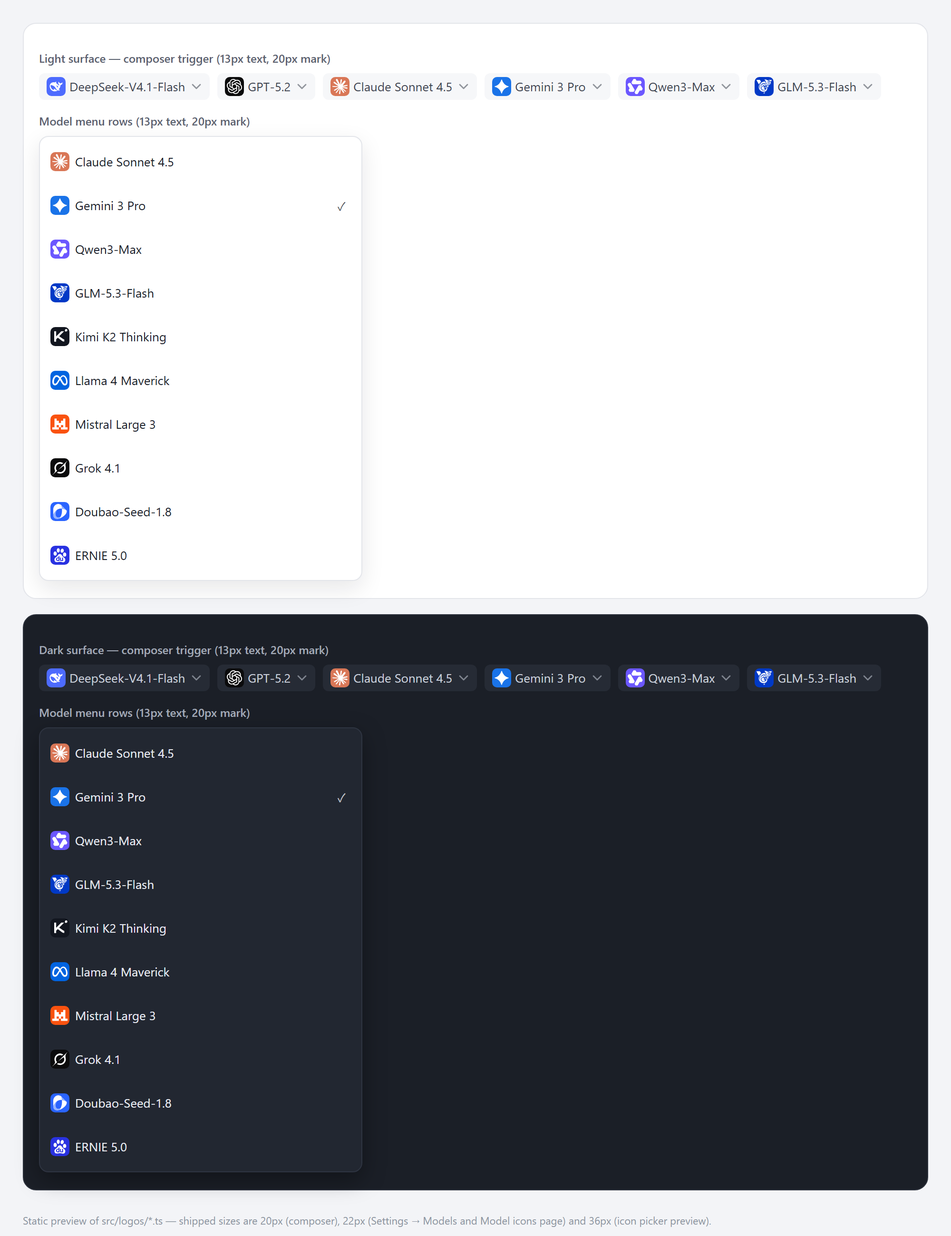
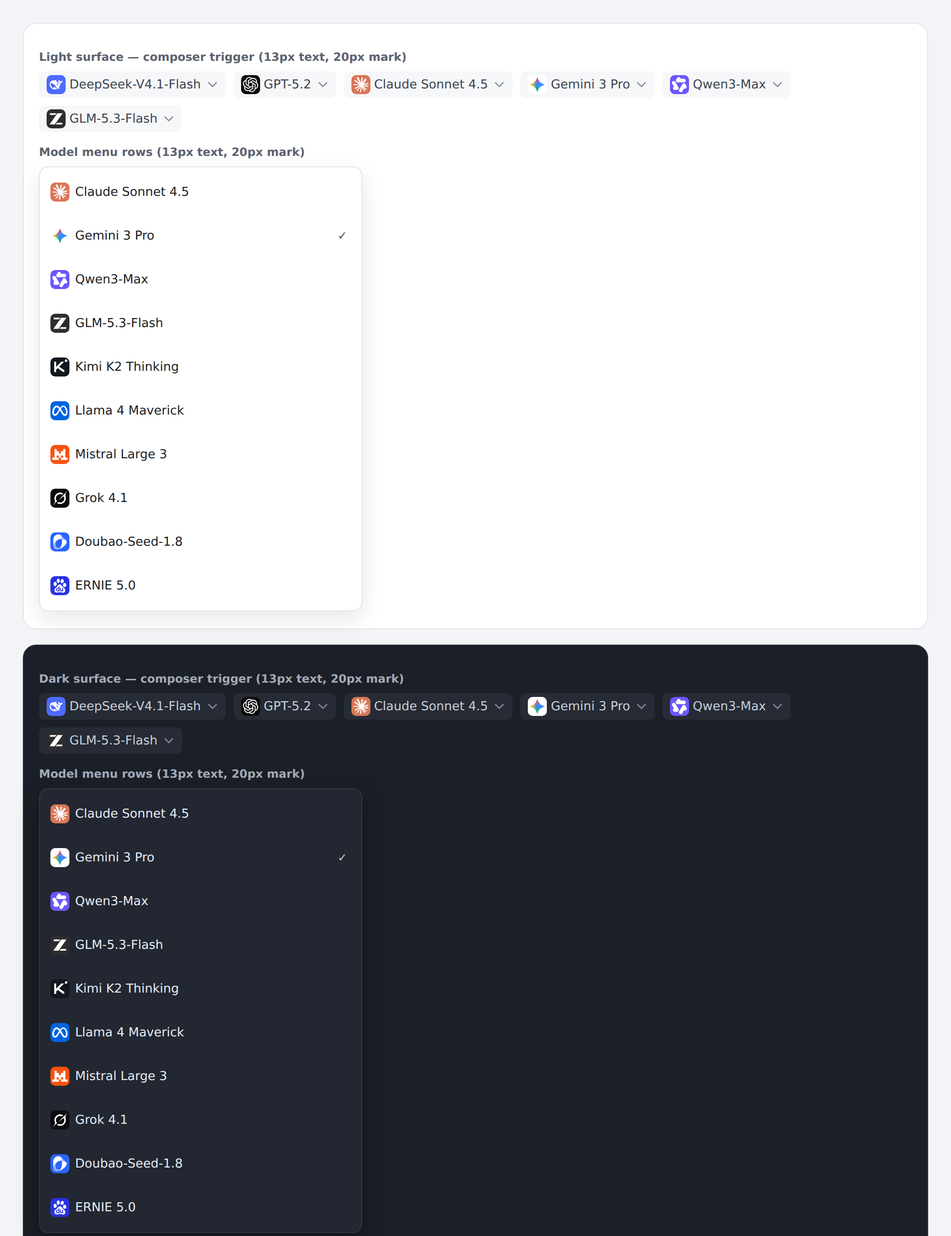
docs: record the corrected artwork provenance and previews
The artwork corrections need their rationale next to the contract: the derived
set, the aurora quantisation and its measured bounds, the fourth-correction
arithmetic (44 upstream files), the `logo:check` wiring and `baiducloud` staying
picker-only. THIRD_PARTY_LICENSES.md now counts 44 upstream Lobe files, adds the
zai-org/GLM-5 Apache-2.0 section with the full licence text and the derived
Gemini note, and lists the eight manual keys with their sources. The READMEs say
where the Z and the aurora come from. The design sheets and the five
docs/preview*.png are regenerated from the current build.

Verified: pnpm run verify (95 tests, logo:check, rank:check, build, artifact
check); pnpm run verify:dom (89 passed, 0 failed); previews regenerated with the
commands documented in docs/engineering.md.

diff --git a/docs/brand-names.md b/docs/brand-names.md
@@ -25,38 +25,39 @@ the source of truth for that overlay, and `src/i18n.ts` must match it.
 - Names that are already the official name in Chinese-language contexts are not
   overridden (`Kimi`, `MiniMax`, `DeepSeek`, `Azure`, …).
 
-Research date: **2026-11-06** (Asia/Shanghai). Every entry below was checked
-against a page the brand owner controls; the exact quote is recorded next to the
-link.
+Research date: **2026-11-06** (Asia/Shanghai), re-checked and extended on
+**2026-11-10** with `baiducloud`. Every entry below was checked against a page the
+brand owner controls; the exact quote is recorded next to the link.
 
 ## Included names
 
-| logoKey     | official English title | official Chinese name | group  | first-party source and quote                                                                                                                               |
-| ----------- | ---------------------- | --------------------- | ------ | ---------------------------------------------------------------------------------------------------------------------------------------------------------- |
-| `alibaba`   | Alibaba                | 阿里巴巴              | vendor | [alibabagroup.com](https://www.alibabagroup.com/zh-CN) — “阿里巴巴集团的使命是让天下没有难做的生意。”                                                      |
-| `antgroup`  | Ant Group              | 蚂蚁集团              | vendor | [antgroup.com](https://www.antgroup.com/) — “浙江蚂蚁小微金融服务集团股份有限公司正式更名为蚂蚁科技集团股份有限公司，简称蚂蚁集团。”                       |
-| `aws`       | AWS                    | 亚马逊云科技          | vendor | [amazonaws.cn](https://www.amazonaws.cn/) — “使用亚马逊云科技产品…” “免费试用亚马逊云科技”                                                                 |
-| `baidu`     | Baidu                  | 百度                  | vendor | [home.baidu.com](https://home.baidu.com/) — “百度公司介绍”                                                                                                 |
-| `bytedance` | ByteDance              | 字节跳动              | vendor | [bytedance.com/zh](https://www.bytedance.com/zh) — “字节跳动是一家全球化科技公司”                                                                          |
-| `google`    | Google                 | 谷歌                  | vendor | [Google 中国官方博客](https://china.googleblog.com/2006/04/blog-post_2456.html) — “昨天，Google 发布了我们在全球唯一的非英文品牌名称 – 谷歌。”             |
-| `microsoft` | Microsoft              | 微软                  | vendor | [microsoft.com/zh-cn](https://www.microsoft.com/zh-cn) — “微软的数字工具正在帮助…”                                                                         |
-| `moonshot`  | Moonshot AI            | 月之暗面              | vendor | [moonshot.cn/about](https://www.moonshot.cn/about) — “月之暗面（Moonshot AI）正式成立。”                                                                   |
-| `nvidia`    | NVIDIA                 | 英伟达                | vendor | [blogs.nvidia.cn](https://blogs.nvidia.cn/) — NVIDIA 官方中国博客首页标题 “NVIDIA 英伟达博客”                                                              |
-| `tencent`   | Tencent                | 腾讯                  | vendor | [tencent.com/zh-cn](https://www.tencent.com/zh-cn/about.html) — “腾讯是一家世界领先的互联网科技公司”                                                       |
-| `xiaomi`    | Xiaomi                 | 小米                  | vendor | [mi.com](https://www.mi.com/) — “小米集团隐私政策” “小米商城”                                                                                              |
-| `zhipu`     | Zhipu AI               | 智谱                  | vendor | [zhipuai.cn](https://www.zhipuai.cn/) — “智谱（‘公司’；香港联交所股票代码：02513）”                                                                        |
-| `antling`   | Ant Ling               | 蚂蚁百灵              | model  | [developer.ant-ling.com](https://developer.ant-ling.com/zh-CN/docs/) — “蚂蚁百灵（Ant Ling）是蚂蚁集团开源的大语言模型家族”                                |
-| `doubao`    | Doubao                 | 豆包                  | model  | [doubao.com](https://www.doubao.com/) — “关于豆包” “下载豆包电脑版”                                                                                        |
-| `ernie`     | ERNIE                  | 文心                  | model  | [cloud.baidu.com/wenxin.html](https://cloud.baidu.com/wenxin.html) — “文心一言是百度打造出来的人工智能大语言模型” “文心大模型服务”                         |
-| `hailuo`    | Hailuo                 | 海螺                  | model  | [minimax.cn](https://www.minimax.cn/news/s2v-01%E5%8F%91%E5%B8%83) — “海螺AI是一台造梦机…”（官方产品/品牌名；API 模型 ID 仍为 `MiniMax-Hailuo-*`）         |
-| `hunyuan`   | Hunyuan                | 混元                  | model  | [hunyuan.tencent.com](https://hunyuan.tencent.com/) — “腾讯混元”                                                                                           |
-| `qwen`      | Qwen                   | 千问                  | model  | [阿里云开发者社区（官方）](https://developer.aliyun.com/article/1714078) — “阿里巴巴大模型品牌中文为‘千问大模型’，英文为‘Qwen’…‘通义千问’的名称将不再使用” |
-| `stepfun`   | StepFun                | 阶跃星辰              | model  | [stepfun.com/about](https://www.stepfun.com/about) — “# 阶跃星辰（StepFun）”；模型系列名为 “Step”，此标记的标题是公司品牌                                  |
+| logoKey      | official English title | official Chinese name | group  | first-party source and quote                                                                                                                                                                   |
+| ------------ | ---------------------- | --------------------- | ------ | ---------------------------------------------------------------------------------------------------------------------------------------------------------------------------------------------- |
+| `alibaba`    | Alibaba                | 阿里巴巴              | vendor | [alibabagroup.com](https://www.alibabagroup.com/zh-CN) — “阿里巴巴集团的使命是让天下没有难做的生意。”                                                                                          |
+| `antgroup`   | Ant Group              | 蚂蚁集团              | vendor | [antgroup.com](https://www.antgroup.com/) — “浙江蚂蚁小微金融服务集团股份有限公司正式更名为蚂蚁科技集团股份有限公司，简称蚂蚁集团。”                                                           |
+| `aws`        | AWS                    | 亚马逊云科技          | vendor | [amazonaws.cn](https://www.amazonaws.cn/) — “使用亚马逊云科技产品…” “免费试用亚马逊云科技”                                                                                                     |
+| `baidu`      | Baidu                  | 百度                  | vendor | [home.baidu.com](https://home.baidu.com/) — “百度公司介绍”                                                                                                                                     |
+| `baiducloud` | BaiduCloud             | 百度智能云            | vendor | [cloud.baidu.com/event/brand.html](https://cloud.baidu.com/event/brand.html) — “升级后，面向企业的‘百度开放云’平台将正式使用‘百度智能云’品牌。” Logo释义：“由三原色组成的开放式六边环形标志。” |
+| `bytedance`  | ByteDance              | 字节跳动              | vendor | [bytedance.com/zh](https://www.bytedance.com/zh) — “字节跳动是一家全球化科技公司”                                                                                                              |
+| `google`     | Google                 | 谷歌                  | vendor | [Google 中国官方博客](https://china.googleblog.com/2006/04/blog-post_2456.html) — “昨天，Google 发布了我们在全球唯一的非英文品牌名称 – 谷歌。”                                                 |
+| `microsoft`  | Microsoft              | 微软                  | vendor | [microsoft.com/zh-cn](https://www.microsoft.com/zh-cn) — “微软的数字工具正在帮助…”                                                                                                             |
+| `moonshot`   | Moonshot AI            | 月之暗面              | vendor | [moonshot.cn/about](https://www.moonshot.cn/about) — “月之暗面（Moonshot AI）正式成立。”                                                                                                       |
+| `nvidia`     | NVIDIA                 | 英伟达                | vendor | [blogs.nvidia.cn](https://blogs.nvidia.cn/) — NVIDIA 官方中国博客首页标题 “NVIDIA 英伟达博客”                                                                                                  |
+| `tencent`    | Tencent                | 腾讯                  | vendor | [tencent.com/zh-cn](https://www.tencent.com/zh-cn/about.html) — “腾讯是一家世界领先的互联网科技公司”                                                                                           |
+| `xiaomi`     | Xiaomi                 | 小米                  | vendor | [mi.com](https://www.mi.com/) — “小米集团隐私政策” “小米商城”                                                                                                                                  |
+| `zhipu`      | Zhipu AI               | 智谱                  | vendor | [zhipuai.cn](https://www.zhipuai.cn/) — “智谱（‘公司’；香港联交所股票代码：02513）”                                                                                                            |
+| `antling`    | Ant Ling               | 蚂蚁百灵              | model  | [developer.ant-ling.com](https://developer.ant-ling.com/zh-CN/docs/) — “蚂蚁百灵（Ant Ling）是蚂蚁集团开源的大语言模型家族”                                                                    |
+| `doubao`     | Doubao                 | 豆包                  | model  | [doubao.com](https://www.doubao.com/) — “关于豆包” “下载豆包电脑版”                                                                                                                            |
+| `ernie`      | ERNIE                  | 文心                  | model  | [cloud.baidu.com/wenxin.html](https://cloud.baidu.com/wenxin.html) — “文心一言是百度打造出来的人工智能大语言模型” “文心大模型服务”                                                             |
+| `hailuo`     | Hailuo                 | 海螺                  | model  | [minimax.cn](https://www.minimax.cn/news/s2v-01%E5%8F%91%E5%B8%83) — “海螺AI是一台造梦机…”（官方产品/品牌名；API 模型 ID 仍为 `MiniMax-Hailuo-*`）                                             |
+| `hunyuan`    | Hunyuan                | 混元                  | model  | [hunyuan.tencent.com](https://hunyuan.tencent.com/) — “腾讯混元”                                                                                                                               |
+| `qwen`       | Qwen                   | 千问                  | model  | [阿里云开发者社区（官方）](https://developer.aliyun.com/article/1714078) — “阿里巴巴大模型品牌中文为‘千问大模型’，英文为‘Qwen’…‘通义千问’的名称将不再使用”                                     |
+| `stepfun`    | StepFun                | 阶跃星辰              | model  | [stepfun.com/about](https://www.stepfun.com/about) — “# 阶跃星辰（StepFun）”；模型系列名为 “Step”，此标记的标题是公司品牌                                                                      |
 
 ## Deliberate review decisions
 
 The overlay was researched in two independent passes and adjudicated against the
-primary sources above. Three verdicts differ from the most conservative reading and
+primary sources above. Four verdicts differ from the most conservative reading and
 are recorded here so a future contributor does not “fix” them into a folk name:
 
 - **`qwen` → 千问, not 通义千问.** Alibaba unified its model/app brand in March
@@ -73,6 +74,13 @@ are recorded here so a future contributor does not “fix” them into a folk na
   product line 海螺AI in its own Chinese material, and StepFun's official Chinese
   name is 阶跃星辰（its models are “Step”). Their API/model identifiers stay Latin
   (`MiniMax-Hailuo-2.3`, `Step 3.5 Flash`) — only the displayed brand is localized.
+- **`baiducloud` → 百度智能云, a separate overlay row from `baidu` → 百度.** The
+  cloud business and the consumer search brand are distinct Baidu brands: Baidu
+  itself announced the rename on its own brand page (“面向企业的‘百度开放云’平台将
+  正式使用‘百度智能云’品牌”), and the mark is the tri-colour open hexagonal ring.
+  The two keys must keep separate titles **and** separate Chinese names — `百度`
+  colouring the cloud tile, or `百度智能云` colouring search, would misattribute a
+  brand the owner keeps apart.
 
 ## Names kept in English
 

diff --git a/THIRD_PARTY_LICENSES.md b/THIRD_PARTY_LICENSES.md
@@ -1,10 +1,10 @@
 # Third-party licenses and artwork provenance
 
 This package is MIT licensed (see [LICENSE](LICENSE)). The brand marks bundled in
-`src/logos/official.generated.ts` and `src/logos/manual.ts` are third-party
-artwork; the licenses below cover that artwork, and the trademarks remain the
-property of their owners. The marks are used only to identify the corresponding
-provider or model in the plugin's UI.
+`src/logos/official.generated.ts`, `src/logos/derived.generated.ts` and
+`src/logos/manual.ts` are third-party artwork; the licenses below cover that
+artwork, and the trademarks remain the property of their owners. The marks are
+used only to identify the corresponding provider or model in the plugin's UI.
 
 ## @lobehub/icons-static-svg 1.102.0 — MIT
 
@@ -12,10 +12,12 @@ provider or model in the plugin's UI.
 - Upstream: <https://github.com/lobehub/lobe-icons>
 - Source files: <https://unpkg.com/@lobehub/icons-static-svg@1.102.0/icons/>
 - License: MIT, copyright © 2023 LobeHub
-- Included here: the 46 upstream files committed verbatim under
+- Included here: the 44 upstream files committed verbatim under
   `reference/official/` (one `<slug>.svg` per source mark, sha256 pinned in
   `reference/official/manifest.json`), fitted into 24×24 tiles by
-  `scripts/import-logos.ts` to produce `src/logos/official.generated.ts`.
+  `scripts/import-logos.ts` to produce `src/logos/official.generated.ts`. The
+  derived sources under `reference/derived/` that also come from this package
+  (`gemini-aurora.svg`) are covered by the same MIT grant; the Z tile is not.
 
 ```text
 MIT License
@@ -41,6 +43,81 @@ OUT OF OR IN CONNECTION WITH THE SOFTWARE OR THE USE OR OTHER DEALINGS IN THE
 SOFTWARE.
 ```
 
+## zai-org/GLM-5 — Apache-2.0
+
+- Upstream: <https://github.com/zai-org/GLM-5>
+- Pinned file: `resources/logo.svg` at commit
+  `83c03d317378f86f0a012f7c4cd48b6243c7e69b`, committed verbatim as
+  `reference/derived/zhipu-z.svg` (its sha256 is pinned in
+  `reference/derived/manifest.json`).
+- License: Apache License, Version 2.0, copyright © the zai-org/GLM-5 authors.
+  The upstream repository ships no `NOTICE` file, so the terms below are the
+  whole attribution.
+- Included here: the three white Z shapes are kept verbatim; the plate is
+  replaced by this repository's own rounded tile carrying the source fill
+  (`#2D2D2D`), and the dead `<style>` table, the `id` attributes and the empty
+  groups are dropped so the tile can be inlined. `scripts/derive-marks.ts`
+  rebuilds that tile offline from the pinned file, and its `--check` mode fails
+  on any drift.
+
+```text
+Apache License
+
+Version 2.0, January 2004
+
+http://www.apache.org/licenses/
+
+TERMS AND CONDITIONS FOR USE, REPRODUCTION, AND DISTRIBUTION
+
+1. Definitions.
+
+"License" shall mean the terms and conditions for use, reproduction, and distribution as defined by Sections 1 through 9 of this document.
+
+"Licensor" shall mean the copyright owner or entity authorized by the copyright owner that is granting the License.
+
+"Legal Entity" shall mean the union of the acting entity and all other entities that control, are controlled by, or are under common control with that entity. For the purposes of this definition, "control" means (i) the power, direct or indirect, to cause the direction or management of such entity, whether by contract or otherwise, or (ii) ownership of fifty percent (50%) or more of the outstanding shares, or (iii) beneficial ownership of such entity.
+
+"You" (or "Your") shall mean an individual or Legal Entity exercising permissions granted by this License.
+
+"Source" form shall mean the preferred form for making modifications, including but not limited to software source code, documentation source, and configuration files.
+
+"Object" form shall mean any form resulting from mechanical transformation or translation of a Source form, including but not limited to compiled object code, generated documentation, and conversions to other media types.
+
+"Work" shall mean the work of authorship, whether in Source or Object form, made available under the License, as indicated by a copyright notice that is included in or attached to the work (an example is provided in the Appendix below).
+
+"Derivative Works" shall mean any work, whether in Source or Object form, that is based on (or derived from) the Work and for which the editorial revisions, annotations, elaborations, or other modifications represent, as a whole, an original work of authorship. For the purposes of this License, Derivative Works shall not include works that remain separable from, or merely link (or bind by name) to the interfaces of, the Work and Derivative Works thereof.
+
+"Contribution" shall mean any work of authorship, including the original version of the Work and any modifications or additions to that Work or Derivative Works thereof, that is intentionally submitted to Licensor for inclusion in the Work by the copyright owner or by an individual or Legal Entity authorized to submit on behalf of the copyright owner. For the purposes of this definition, "submitted" means any form of electronic, verbal, or written communication sent to the Licensor or its representatives, including but not limited to communication on electronic mailing lists, source code control systems, and issue tracking systems that are managed by, or on behalf of, the Licensor for the purpose of discussing and improving the Work, but excluding communication that is conspicuously marked or otherwise designated in writing by the copyright owner as "Not a Contribution."
+
+"Contributor" shall mean Licensor and any individual or Legal Entity on behalf of whom a Contribution has been received by Licensor and subsequently incorporated within the Work.
+
+2. Grant of Copyright License. Subject to the terms and conditions of this License, each Contributor hereby grants to You a perpetual, worldwide, non-exclusive, no-charge, royalty-free, irrevocable copyright license to reproduce, prepare Derivative Works of, publicly display, publicly perform, sublicense, and distribute the Work and such Derivative Works in Source or Object form.
+
+3. Grant of Patent License. Subject to the terms and conditions of this License, each Contributor hereby grants to You a perpetual, worldwide, non-exclusive, no-charge, royalty-free, irrevocable (except as stated in this section) patent license to make, have made, use, offer to sell, sell, import, and otherwise transfer the Work, where such license applies only to those patent claims licensable by such Contributor that are necessarily infringed by their Contribution(s) alone or by combination of their Contribution(s) with the Work to which such Contribution(s) was submitted. If You institute patent litigation against any entity (including a cross-claim or counterclaim in a lawsuit) alleging that the Work or a Contribution incorporated within the Work constitutes direct or contributory patent infringement, then any patent licenses granted to You under this License for that Work shall terminate as of the date such litigation is filed.
+
+4. Redistribution. You may reproduce and distribute copies of the Work or Derivative Works thereof in any medium, with or without modifications, and in Source or Object form, provided that You meet the following conditions:
+
+You must give any other recipients of the Work or Derivative Works a copy of this License; and
+
+You must cause any modified files to carry prominent notices stating that You changed the files; and
+
+You must retain, in the Source form of any Derivative Works that You distribute, all copyright, patent, trademark, and attribution notices from the Source form of the Work, excluding those notices that do not pertain to any part of the Derivative Works; and
+
+If the Work includes a "NOTICE" text file as part of its distribution, then any Derivative Works that You distribute must include a readable copy of the attribution notices contained within such NOTICE file, excluding those notices that do not pertain to any part of the Derivative Works, in at least one of the following places: within a NOTICE text file distributed as part of the Derivative Works; within the Source form or documentation, if provided along with the Derivative Works; or, within a display generated by the Derivative Works, if and wherever such third-party notices normally appear. The contents of the NOTICE file are for informational purposes only and do not modify the License. You may add Your own attribution notices within Derivative Works that You distribute, alongside or as an addendum to the NOTICE text from the Work, provided that such additional attribution notices cannot be construed as modifying the License. You may add Your own copyright statement to Your modifications and may provide additional or different license terms and conditions for use, reproduction, or distribution of Your modifications, or for any such Derivative Works as a whole, provided Your use, reproduction, and distribution of the Work otherwise complies with the conditions stated in this License.
+
+5. Submission of Contributions. Unless You explicitly state otherwise, any Contribution intentionally submitted for inclusion in the Work by You to the Licensor shall be under the terms and conditions of this License, without any additional terms or conditions. Notwithstanding the above, nothing herein shall supersede or modify the terms of any separate license agreement you may have executed with Licensor regarding such Contributions.
+
+6. Trademarks. This License does not grant permission to use the trade names, trademarks, service marks, or product names of the Licensor, except as required for reasonable and customary use in describing the origin of the Work and reproducing the content of the NOTICE file.
+
+7. Disclaimer of Warranty. Unless required by applicable law or agreed to in writing, Licensor provides the Work (and each Contributor provides its Contributions) on an "AS IS" BASIS, WITHOUT WARRANTIES OR CONDITIONS OF ANY KIND, either express or implied, including, without limitation, any warranties or conditions of TITLE, NON-INFRINGEMENT, MERCHANTABILITY, or FITNESS FOR A PARTICULAR PURPOSE. You are solely responsible for determining the appropriateness of using or redistributing the Work and assume any risks associated with Your exercise of permissions under this License.
+
+8. Limitation of Liability. In no event and under no legal theory, whether in tort (including negligence), contract, or otherwise, unless required by applicable law (such as deliberate and grossly negligent acts) or agreed to in writing, shall any Contributor be liable to You for damages, including any direct, indirect, special, incidental, or consequential damages of any character arising as a result of this License or out of the use or inability to use the Work (including but not limited to damages for loss of goodwill, work stoppage, computer failure or malfunction, or any and all other commercial damages or losses), even if such Contributor has been advised of the possibility of such damages.
+
+9. Accepting Warranty or Additional Liability. While redistributing the Work or Derivative Works thereof, You may choose to offer, and charge a fee for, acceptance of support, warranty, indemnity, or other liability obligations and/or rights consistent with this License. However, in accepting such obligations, You may act only on Your own behalf and on Your sole responsibility, not on behalf of any other Contributor, and only if You agree to indemnify, defend, and hold each Contributor harmless for any liability incurred by, or claims asserted against, such Contributor by reason of your accepting any such warranty or additional liability.
+
+END OF TERMS AND CONDITIONS
+```
+
 ## Simple Icons — CC0 1.0 Universal
 
 - Upstream: <https://simpleicons.org> (source: <https://github.com/simple-icons/simple-icons>)
@@ -54,6 +131,11 @@ The following marks are not covered by the licenses above. They are official
 brand assets reproduced or approximated only to identify the brand, and the
 trademarks remain with their owners:
 
+- **Zhipu AI / GLM** — the white Z from the official zai-org/GLM-5 tile, which
+  `scripts/derive-marks.ts` rebuilds into one shared tile for both keys. See the
+  Apache-2.0 section above.
+- **Gemini** — the official Lobe aurora, flattened into id-free colour bands;
+  see the MIT section above.
 - **DeepSeek** — official whale glyph from `reference/deepseek-whale.svg`
   (50×50 viewBox), recoloured and fitted into the shared tile.
 - **AWS / Nova** — the official smile-arrow symbol (AWS; Nova reuses it because
@@ -66,4 +148,5 @@ trademarks remain with their owners:
 
 No artwork in this repository is claimed to be licensed by the brand owners; if
 a brand owner asks for removal, replace or remove the mark and regenerate the
-artwork module with `pnpm exec tsx scripts/import-logos.ts`.
+artwork module with `pnpm exec tsx scripts/import-logos.ts` (or, for a derived
+mark, `pnpm exec tsx scripts/derive-marks.ts`).

diff --git a/docs/engineering.md b/docs/engineering.md
@@ -102,11 +102,12 @@ src/resolve.ts      overrideIcon, withOverride, withoutOverride, flattenOverride
                     withoutProviderOverride, flattenProviderOverrides,
                     providerLetterTextFor, resolveProviderIcon
 src/logos/official.generated.ts   LOGOS — marks imported from the pinned Lobe Icons set
-src/logos/manual.ts               LOGOS — DeepSeek, Xiaomi, AWS, Radius exceptions
+src/logos/manual.ts               LOGOS — the eight derived and hand-drawn exceptions
 src/logos/groups.ts               groupLogoEntries, filterLogoGroups, SHARED_VENDOR_MARKS
 src/logos/ranking.ts              LOGO_RANKS, RANKING_DATE — generated snapshot summary
 src/logos/index.ts                LOGOS — the merged set every renderer reads
 scripts/import-logos.ts           offline importer/checker for the official artwork
+scripts/derive-marks.ts           --check for reference/derived/ (the Z and the aurora)
 scripts/rank-logos.ts             --collect/--check for reference/rankings.json
 ```
 
@@ -203,11 +204,11 @@ that recorded them, not from the current build.
   legacy override keys, and the closed `LOGO_KEYS`/artwork invariants.
 - Artwork tests pin the letter-tile generator (determinism, safe SVG, CJK text,
   escaping) and the brand marks' inlining rules.
-- Grouping tests pin the exact 32 vendor / 24 model key sets, the absence of
+- Grouping tests pin the exact 33 vendor / 24 model key sets, the absence of
   overlaps, search filtering across both groups, caller-supplied localized search
   aliases, the alias glyphs
   (`gpt/openai`, `llama/meta`, `phi/microsoft`, `nemotron/nvidia`, `nova/aws`,
-  `ernie/baidu`), and the ranking sanity relations.
+  `ernie/baidu`, `glm/zhipu`), and the ranking sanity relations.
 - Brand-name tests pin the reviewed official-Chinese-name table (`千问`,
   `蚂蚁百灵`, `亚马逊云科技`, …), that every localized key has artwork and differs
   from the English title, that names without an official Chinese form stay
@@ -331,6 +332,76 @@ that recorded them, not from the current build.
   (including the element-name case a real browser reports for SVG children), and
   `scripts/build.ts` refuses a glyph or a stylesheet rule that breaks those
   invariants.
+- **Four artwork corrections: two wrong glyphs, one wrong palette, one missing
+  brand.** `zhipu` shipped the Lobe swirl (white dots that read as noise at 22px)
+  and `glm` the Lobe `glmv.svg` animal; both now render the official Zhipu mark —
+  the zai-org/GLM-5 `resources/logo.svg` black tile (`#2D2D2D`, `rx 6`) with the
+  white Z. They share one tile, like `ernie`/`baidu`, but keep their own titles and
+  groups (`Zhipu AI` vendor, `GLM` model). `gemini` shipped a flat white star; it
+  now carries the official Lobe `gemini-color.svg` aurora quantised into flat,
+  id-free cells, because an inlined tile may not carry ids or gradient definitions. `baiducloud` (BaiduCloud, 百度智能云) is new: a vendor mark from Lobe
+  `baiducloud-color.svg`, the tri-colour cube with no wordmark. The key set grows
+  56 → 57 (33 vendor / 24 model).
+- **Three keys moved out of the Lobe import into a pinned derived set.** `zhipu`,
+  `glm` and `gemini` are no longer `SOURCE_MARKS`: they are rebuilt offline by
+  `scripts/derive-marks.ts` from `reference/derived/`, whose `manifest.json` records
+  each file's url, pinned commit or version, sha256 and licence. The Z source is
+  `zhipu-z.svg`, the zai-org/GLM-5 `resources/logo.svg` pinned to commit
+  `83c03d317378f86f0a012f7c4cd48b6243c7e69b` (Apache-2.0); the aurora source is
+  `gemini-aurora.svg`, Lobe `gemini-color.svg` at 1.102.0 (MIT). They are
+  hand-derived rather than imported because Lobe 1.102.0 does not carry the Z at
+  all, and the Lobe aurora would need the gradient definitions an inlined tile may
+  not hold. Both derived files are committed byte-exact against their upstream
+  sha256 — one `curl` of the pinned blob would otherwise be the only way to notice a
+  silent upstream change.
+- `pnpm exec tsx scripts/derive-marks.ts --check` is wired into `pnpm run
+  logo:check`: it re-reads the two sources, rebuilds both tiles (the Z and the
+  aurora) and fails on drift, so no derived mark can change without its source
+  changing. Its guards are numeric, like the Lobe importer's: the Z fit must put the
+  mapped glyph bbox centre on (12,12) and inside 0..24, and the aurora quantisation
+  must cover every silhouette sample, stay under a per-pixel error bound and keep
+  every colour family — asserted in the script, not eyeballed from the assets.
+- The Gemini reconstruction is a measured quantisation, not "bands that look
+  right". `scripts/derive-marks.ts` reads the pinned aurora, flattens its four-arc
+  star outline, and parses the three `userSpaceOnUse` opacity ramps — green
+  `#08B962` and red `#F94543` fade to zero over their full axis, yellow `#FABC12`
+  over 0.46 of it. It composites them over the `#3186FF` base in document order,
+  then quarters the cell with the widest colour spread until the silhouette is
+  covered by 40 flat cells (mean colour per cell, adjacent cells overlapping by
+  0.06 units so no seam can show the white plate). The script asserts coverage, a
+  mean |ΔRGB| bound (9.6 by its own 0.05-unit sampling, hard limit 12) and a
+  minimum share for each of the red, yellow, green and blue families, so a
+  flat-blue or half-size reconstruction fails the build instead of passing a
+  score. Measured independently from the
+  shipped `client.js` in a headless browser: mean |ΔRGB| **7.65** at 96 px and
+  **7.87** at 384 px, mean ΔE76 **9.5**, silhouette IoU **0.991** against the
+  placed source, and every hue family present. The first attempt at this tile
+  scored only the pixels it covered, and shipped a star at half the intended size
+  whose bands left the green ramp and most of the outline white — the guard is
+  therefore coverage plus a full-silhouette error, never a score over covered
+  pixels only.
+- The arithmetic is now 46 − `zhipu` − `glm` − `gemini` + `baiducloud` = 44 upstream
+  files, + 5 aliases = 49 generated marks, + the 8 `manual.ts` exceptions (`aws`,
+  `deepseek`, `gemini`, `glm`, `nova`, `radius`, `xiaomi`, `zhipu`) = **57 keys**
+  (33 vendor / 24 model), which `MANUAL_MARKS` in `scripts/fetch-official-logos.ts`
+  pins as an exact set and `assertConfigCoverage` enforces as `generated + manual ==
+  required`. `pnpm exec tsx scripts/fetch-official-logos.ts` reproduces all 45 files
+  under `reference/official/` (44 `.svg` + `manifest.json`) byte-identically; the 43
+  entries whose sha256 did not change are upstream immutability, not stale pins,
+  while `baiducloud-color.svg` is the one new fetch.
+- `zhipu` staying group `vendor` is what keeps `SHARED_VENDOR_MARKS` untouched:
+  `glm` sharing its glyph with `zhipu` is a model mark reusing a vendor mark, the
+  reverse of the `deepseek`/`mistral`/`minimax` exception the build validates, and
+  `zhipu` is not in `VENDOR_CHANNELS` at all, so no vendor channel points at a
+  model-only mark. Verified by the build and by the grouping test rather than by
+  adding an entry no check reads.
+- `baiducloud` is **picker-only**, like `radius` and `typesafe`: a real Baidu
+  product mark that no shipped DSH route resolves to. It is therefore in
+  `LOGO_KEYS` and in `PICKER_ONLY_KEYS`, and deliberately in no rule target set —
+  `matchVendorLogo('baiducloud')`, `'baidu-cloud'` and `'bce'` all return null. If a
+  Qianfan channel is ever added, `baidu`/`ernie` remain its marks; nothing may map
+  to `baiducloud` by pattern. `test/match.test.ts` pins that closure for every
+  picker-only key, not just the new one.
 - Live bundle check with `scripts/verify-live.ts` against the running Web GUI:
   `/plugins/??dsh-model-logos/client.js&rev=e81788b19a12` returned the freshly built
   artifact (203,742 bytes served, 56 artwork entries), proving the client HMR

diff --git a/README.zh.md b/README.zh.md
@@ -101,7 +101,7 @@ plugin_manager action=install_bundle target=<指向本目录的绝对路径>
 
 每一枚标记都是自包含的 24×24 SVG 方块 —— 品牌色的圆角方块，加上在实际使用尺寸（输入区模型按钮旁的 20 px，设置行旁的 22 px，图标选择器预览里的 36 px）下仍然清晰可辨的图形。运行时不拉取任何东西，所以这些图标不需要网络，也不依赖外部资源。
 
-图形不是靠肉眼重画的，而是来自固定版本的官方矢量集 —— [`@lobehub/icons-static-svg`](https://github.com/lobehub/lobe-icons) 1.102.0（MIT），加上 Simple Icons（CC0）的 Xiaomi，以及取自本应用 Web 前端的 DeepSeek 官方鲸鱼 —— 由入库的导入脚本统一收进同样的方块。构建检查会把生成的路径数据与已提交的上游文件逐条比对，所以想改一枚标记，只能改它的来源。少数例外在源码里注明：Radius 没有官方图形；AWS 保留官方 smile 符号，因为完整字标在图标尺寸下不可读；Xiaomi 保留 Simple Icons 的「mi」。
+图形不是靠肉眼重画的，而是来自固定版本的官方矢量集 —— [`@lobehub/icons-static-svg`](https://github.com/lobehub/lobe-icons) 1.102.0（MIT），加上 Simple Icons（CC0）的 Xiaomi，以及取自本应用 Web 前端的 DeepSeek 官方鲸鱼 —— 由入库的导入脚本统一收进同样的方块。构建检查会把生成的路径数据与已提交的上游文件逐条比对，所以想改一枚标记，只能改它的来源。少数例外在源码里注明：Radius 没有官方图形；AWS 保留官方 smile 符号，因为完整字标在图标尺寸下不可读；Xiaomi 保留 Simple Icons 的「mi」。其中两枚标记不是从该包导入，而是由各自的固定来源重建：智谱的 Z 取自 [zai-org/GLM-5](https://github.com/zai-org/GLM-5) 官方 logo（Apache-2.0，GLM 共用），Gemini 的极光配色取自 Lobe 的彩色标记。两者都提交在 `reference/derived/` 下并有离线重建校验，所以同样只能通过改来源来改图。
 
 原先偏差最明显的标记从来源层修正：Claude 换成官方不规则实心放射状、Ollama 换成正面看镜头的羊驼、豆包换成官方女性形象，替换掉旧的齿轮、侧脸剪影和聊天气泡。MiniMax 2025 年的波形与 Mistral 的像素方块 M 保留此前校正过的形状。品牌 Logo 是其所有者的商标，在此仅用于标识实际使用的提供商或模型。
 

diff --git a/README.md b/README.md
@@ -195,7 +195,12 @@ end — and a checked-in import script fits them into the shared tile. A build c
 compares the generated path data with the committed upstream files, so a mark can
 only change by changing its source. A few exceptions are marked in the source: Radius
 has no official mark, AWS keeps its official smile symbol because the full wordmark
-is unreadable at icon sizes, and Xiaomi keeps the Simple Icons "mi".
+is unreadable at icon sizes, and Xiaomi keeps the Simple Icons "mi". Two marks are
+re-derived from their own pinned sources instead of imported: the Zhipu Z from the
+official [zai-org/GLM-5](https://github.com/zai-org/GLM-5) logo (Apache-2.0, shared
+with GLM) and the Gemini aurora from Lobe's colour mark. Both are committed under
+`reference/derived/` and rebuilt offline, so each can only change by changing its
+pinned source.
 
 The marks that used to be most wrong were fixed at the source: Claude's irregular
 solid burst, Ollama's front-facing llama and Doubao's official female figure replace
